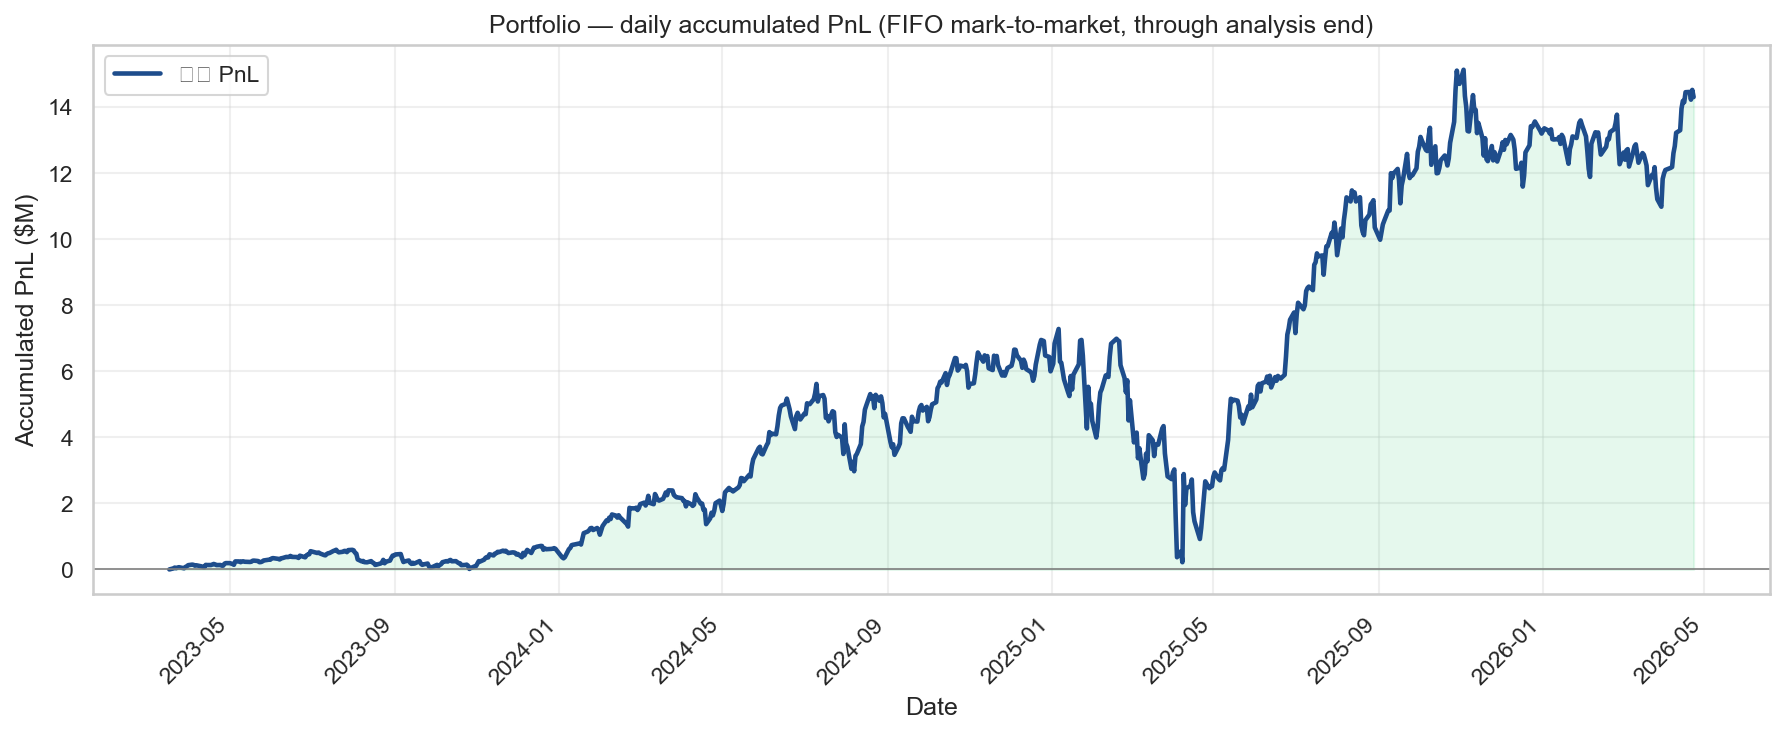
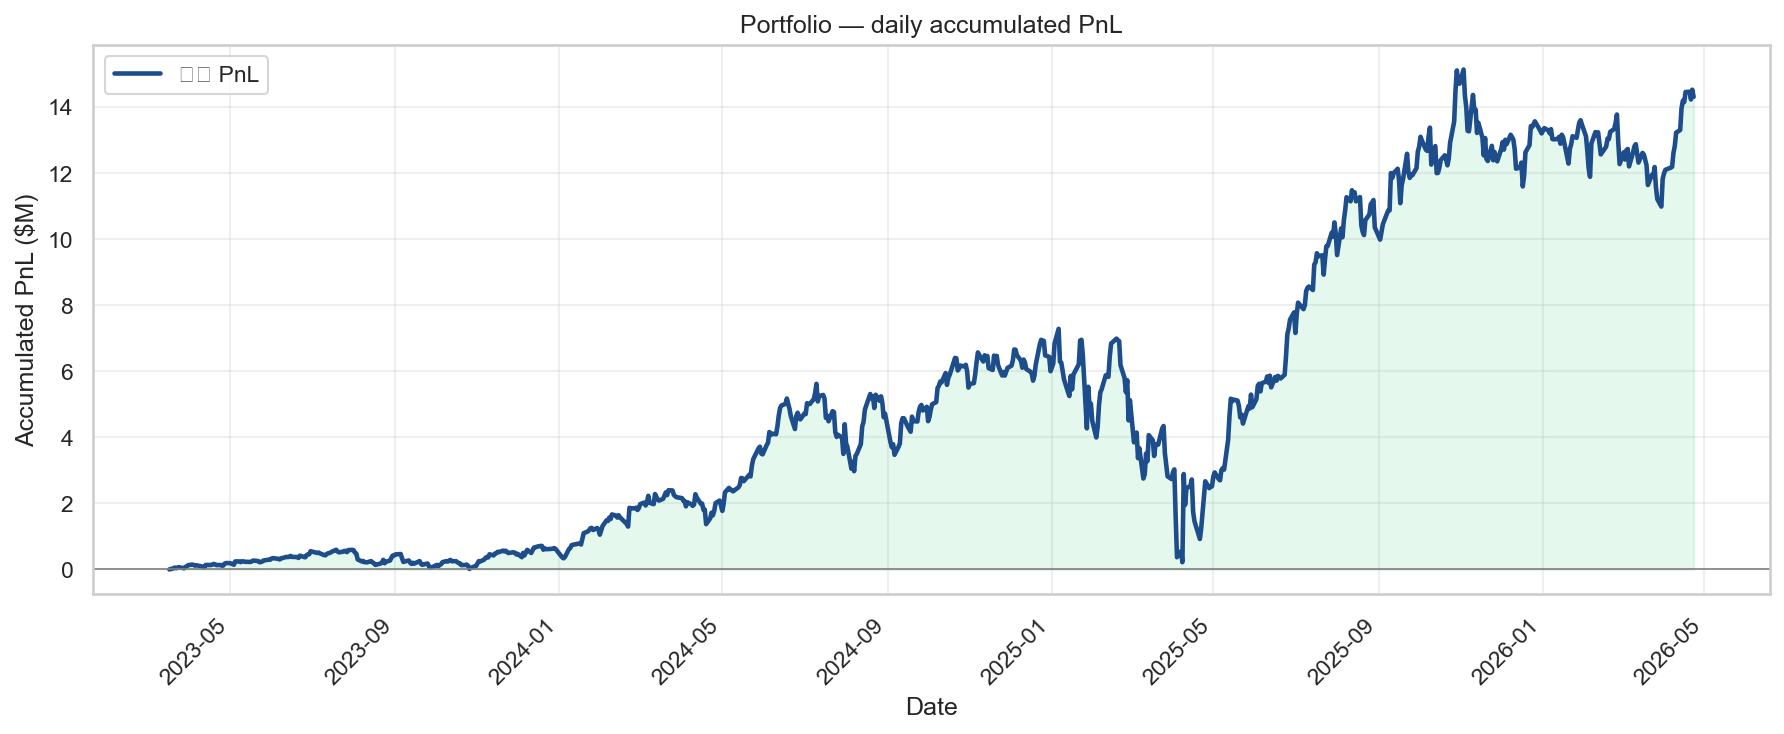
Replace daily top-3 PnL stack with weekly stacked bar chart.
Aggregate per-ticker FIFO daily PnL by week; show top-3 |PnL| tickers plus 其他 in report and restore accumulated PnL chart wiring.

diff --git a/src/visualizations.py b/src/visualizations.py
@@ -798,7 +798,7 @@ def plot_daily_accumulated_pnl(
     title: str,
     prefix: str = "20_daily_accumulated_pnl",
 ) -> Path | None:
-    """Single-panel cumulative PnL on every trading day through analysis end."""
+    """Cumulative portfolio PnL on each trading day through analysis end."""
     if daily.empty or "cum_pnl" not in daily.columns:
         return None
     df = daily.copy()
@@ -820,68 +820,88 @@ def plot_daily_accumulated_pnl(
     return _save(fig, out_dir, prefix)
 
 
-def _daily_top3_other_rows(ticker_daily: pd.DataFrame) -> pd.DataFrame:
+def _weekly_top3_other_rows(ticker_daily: pd.DataFrame) -> pd.DataFrame:
+    """Sum daily_pnl to calendar weeks; top-3 tickers by |weekly PnL| + 其他."""
     td = ticker_daily.copy()
     td["date"] = pd.to_datetime(td["date"])
+    td["week"] = td["date"].dt.to_period("W-SUN").apply(lambda p: p.start_time)
+
+    weekly = td.groupby(["week", "ticker"], as_index=False)["daily_pnl"].sum()
     records: list[dict[str, Any]] = []
-    for d, g in td.groupby("date", sort=True):
+    for week, g in weekly.groupby("week", sort=True):
         g = g[g["daily_pnl"].notna()].copy()
         if g.empty:
-            records.append({"date": d, "rank1": 0.0, "rank2": 0.0, "rank3": 0.0, "other": 0.0})
             continue
         g = g.assign(_abs=g["daily_pnl"].abs()).sort_values("_abs", ascending=False)
         top = g.head(3)
         other = float(g["daily_pnl"].sum() - top["daily_pnl"].sum())
         vals = top["daily_pnl"].tolist()
+        names = top["ticker"].astype(str).tolist()
         while len(vals) < 3:
             vals.append(0.0)
+            names.append("")
         records.append(
             {
-                "date": d,
-                "rank1": vals[0],
-                "rank2": vals[1],
-                "rank3": vals[2],
+                "week": week,
+                "pnl_1": vals[0],
+                "pnl_2": vals[1],
+                "pnl_3": vals[2],
                 "other": other,
+                "ticker_1": names[0],
+                "ticker_2": names[1],
+                "ticker_3": names[2],
             }
         )
     return pd.DataFrame(records)
 
 
-def plot_daily_pnl_top3_stack(
+def plot_weekly_pnl_top3_bars(
     ticker_daily: pd.DataFrame,
     out_dir: Path,
     title: str,
-    prefix: str = "21_daily_pnl_top3_stack",
+    prefix: str = "21_weekly_pnl_top3_bars",
 ) -> Path | None:
-    """Stacked daily PnL: top-3 tickers by |daily_pnl| each day; remainder = 其他."""
-    if ticker_daily.empty:
-        return None
-    wide = _daily_top3_other_rows(ticker_daily)
+    """Stacked weekly PnL bars: top-3 |PnL| tickers + 其他."""
+    wide = _weekly_top3_other_rows(ticker_daily)
     if wide.empty:
         return None
-    wide["date"] = pd.to_datetime(wide["date"])
-    wide = wide.sort_values("date")
+
+    legacy = out_dir / "21_daily_pnl_top3_stack.png"
+    if legacy.exists():
+        try:
+            legacy.unlink()
+        except OSError:
+            pass
+
+    wide = wide.sort_values("week")
     scale, unit = _pnl_scale(
-        pd.concat([wide["rank1"], wide["rank2"], wide["rank3"], wide["other"]], ignore_index=True)
+        pd.concat([wide["pnl_1"], wide["pnl_2"], wide["pnl_3"], wide["other"]], ignore_index=True)
     )
-    fig, ax = plt.subplots(figsize=(12, 5.5))
-    dates = wide["date"]
-    layers = [
-        wide["rank1"] / scale,
-        wide["rank2"] / scale,
-        wide["rank3"] / scale,
-        wide["other"] / scale,
-    ]
-    labels = ["当日 #1", "当日 #2", "当日 #3", "其他"]
+    n = len(wide)
+    fig_w = max(12, min(28, n * 0.35))
+    fig, ax = plt.subplots(figsize=(fig_w, 5.5))
+    x = np.arange(n)
+    w = 0.72
+    b1 = wide["pnl_1"] / scale
+    b2 = wide["pnl_2"] / scale
+    b3 = wide["pnl_3"] / scale
+    bo = wide["other"] / scale
     colors = ["#2980b9", "#27ae60", "#e67e22", "#95a5a6"]
-    ax.stackplot(dates, *layers, labels=labels, colors=colors, alpha=0.88)
+    ax.bar(x, b1, w, label="Top 1", color=colors[0])
+    ax.bar(x, b2, w, bottom=b1, label="Top 2", color=colors[1])
+    ax.bar(x, b3, w, bottom=b1 + b2, label="Top 3", color=colors[2])
+    ax.bar(x, bo, w, bottom=b1 + b2 + b3, label="其他", color=colors[3])
     ax.axhline(0, color="gray", lw=0.8)
+    labels = pd.to_datetime(wide["week"]).dt.strftime("%Y-%m-%d")
+    step = max(1, n // 24)
+    ax.set_xticks(x[::step])
+    ax.set_xticklabels(labels.iloc[::step], rotation=45, ha="right")
     ax.set_title(_mpl_label(title))
-    ax.set_xlabel("Date")
-    ax.set_ylabel(f"Daily PnL contribution ({unit})")
+    ax.set_xlabel("Week (Mon start)")
+    ax.set_ylabel(f"Weekly PnL ({unit})")
     ax.legend(loc="upper left", fontsize=9)
-    ax.grid(True, alpha=0.25)
-    plt.xticks(rotation=45, ha="right")
+    ax.grid(True, axis="y", alpha=0.25)
+    fig.tight_layout()
     return _save(fig, out_dir, prefix)
 
 
@@ -1053,23 +1073,27 @@ def generate_all_charts(
             paths.append(up)
     accum_src = pnl_daily_for_accum
     if accum_src is None or accum_src.empty:
-        accum_src = unified_portfolio_daily if unified_portfolio_daily is not None and not unified_portfolio_daily.empty else portfolio_daily
+        accum_src = (
+            unified_portfolio_daily
+            if unified_portfolio_daily is not None and not unified_portfolio_daily.empty
+            else portfolio_daily
+        )
     if accum_src is not None and not accum_src.empty:
         acc = plot_daily_accumulated_pnl(
             accum_src,
             out_dir,
-            "Portfolio — daily accumulated PnL (FIFO mark-to-market, through analysis end)",
+            "Portfolio — daily accumulated PnL (FIFO MTM, through analysis end)",
         )
         if acc:
             paths.append(acc)
     if ticker_daily_pnl is not None and not ticker_daily_pnl.empty:
-        stk = plot_daily_pnl_top3_stack(
+        wk = plot_weekly_pnl_top3_bars(
             ticker_daily_pnl,
             out_dir,
-            "Daily PnL — top 3 tickers by |PnL| each day (其余 = 其他)",
+            "Weekly PnL — top 3 tickers by |PnL| + 其他 (FIFO daily sum)",
         )
-        if stk:
-            paths.append(stk)
+        if wk:
+            paths.append(wk)
     paths += [
         plot_post_returns(returns_df, out_dir),
         plot_backtest_cum(bt, out_dir),

diff --git a/scripts/generate_report.py b/scripts/generate_report.py
@@ -216,6 +216,9 @@ _FIGURE_CAPTIONS: dict[str, str] = {
     "17_open_holdings": "当前净多头 Top10：名义 + 买入后 horizon 收益",
     "18_portfolio_timeseries": "组合持仓规模与累计 PnL 随时间变化（仅股票 FIFO 日度）",
     "19_unified_portfolio_timeseries": "统一 FIFO（股票+期权/行权）：仓位与累计 PnL 随时间",
+    "20_daily_accumulated_pnl": "每个交易日累计 PnL（FIFO 盯市，直至分析截止日）",
+    "21_weekly_pnl_top3_bars": "每周 PnL：当周 |PnL| 前三股票 + 其他（堆叠柱）",
+    "21_daily_pnl_top3_stack": "（已废弃）请见 21_weekly_pnl_top3_bars",
     "06_backtest_cum": "Legacy：等权披露日回测累计收益",
     "07_event_study": "事件研究：披露日 abnormal return",
     "08_disclosure_timeline": "披露日批次：披露名义总额 + 笔数",
@@ -738,6 +741,8 @@ def _md_report(
     lines += fig("17_open_holdings")
     lines += _portfolio_daily_section(summary)
     lines += fig("18_portfolio_timeseries")
+    lines += fig("20_daily_accumulated_pnl")
+    lines += fig("21_weekly_pnl_top3_bars")
     lines += _unified_portfolio_section(summary, fig)
     lines += [
         "",

diff --git a/src/portfolio_snapshot.py b/src/portfolio_snapshot.py
@@ -186,7 +186,7 @@ def compute_ticker_daily_pnl(
     price_cache: dict[str, pd.DataFrame],
     settings: dict[str, Any] | None = None,
 ) -> pd.DataFrame:
-    """Per-ticker daily and cumulative PnL on the same FIFO calendar as portfolio_daily."""
+    """Per-ticker daily/cumulative PnL on the same FIFO calendar as portfolio_daily."""
     settings = settings or load_settings()
     end = analysis_end_date(settings)
 

diff --git a/reports/FINAL_REPORT.md b/reports/FINAL_REPORT.md
@@ -1,6 +1,6 @@
 # Pelosi 股票/ETF 交易分析报告
 
-> 生成时间: 2026-06-02 21:37 · House STOCK Act PTR · 2023-03-09 起
+> 生成时间: 2026-06-02 21:50 · House STOCK Act PTR · 2023-03-09 起
 
 ## 数据范围
 
@@ -123,6 +123,18 @@ Horizon 收益以 **最早一笔未平买入** 的 anchor 日计（合并账用 
 <figure class="report-fig">
 <img src="figures/18_portfolio_timeseries.png" alt="组合持仓规模与累计 PnL 随时间变化（仅股票 FIFO 日度）">
 <figcaption>组合持仓规模与累计 PnL 随时间变化（仅股票 FIFO 日度）</figcaption>
+</figure>
+
+
+<figure class="report-fig">
+<img src="figures/20_daily_accumulated_pnl.png" alt="每个交易日累计 PnL（FIFO 盯市，直至分析截止日）">
+<figcaption>每个交易日累计 PnL（FIFO 盯市，直至分析截止日）</figcaption>
+</figure>
+
+
+<figure class="report-fig">
+<img src="figures/21_weekly_pnl_top3_bars.png" alt="每周 PnL：当周 |PnL| 前三股票 + 其他（堆叠柱）">
+<figcaption>每周 PnL：当周 |PnL| 前三股票 + 其他（堆叠柱）</figcaption>
 </figure>
 
 